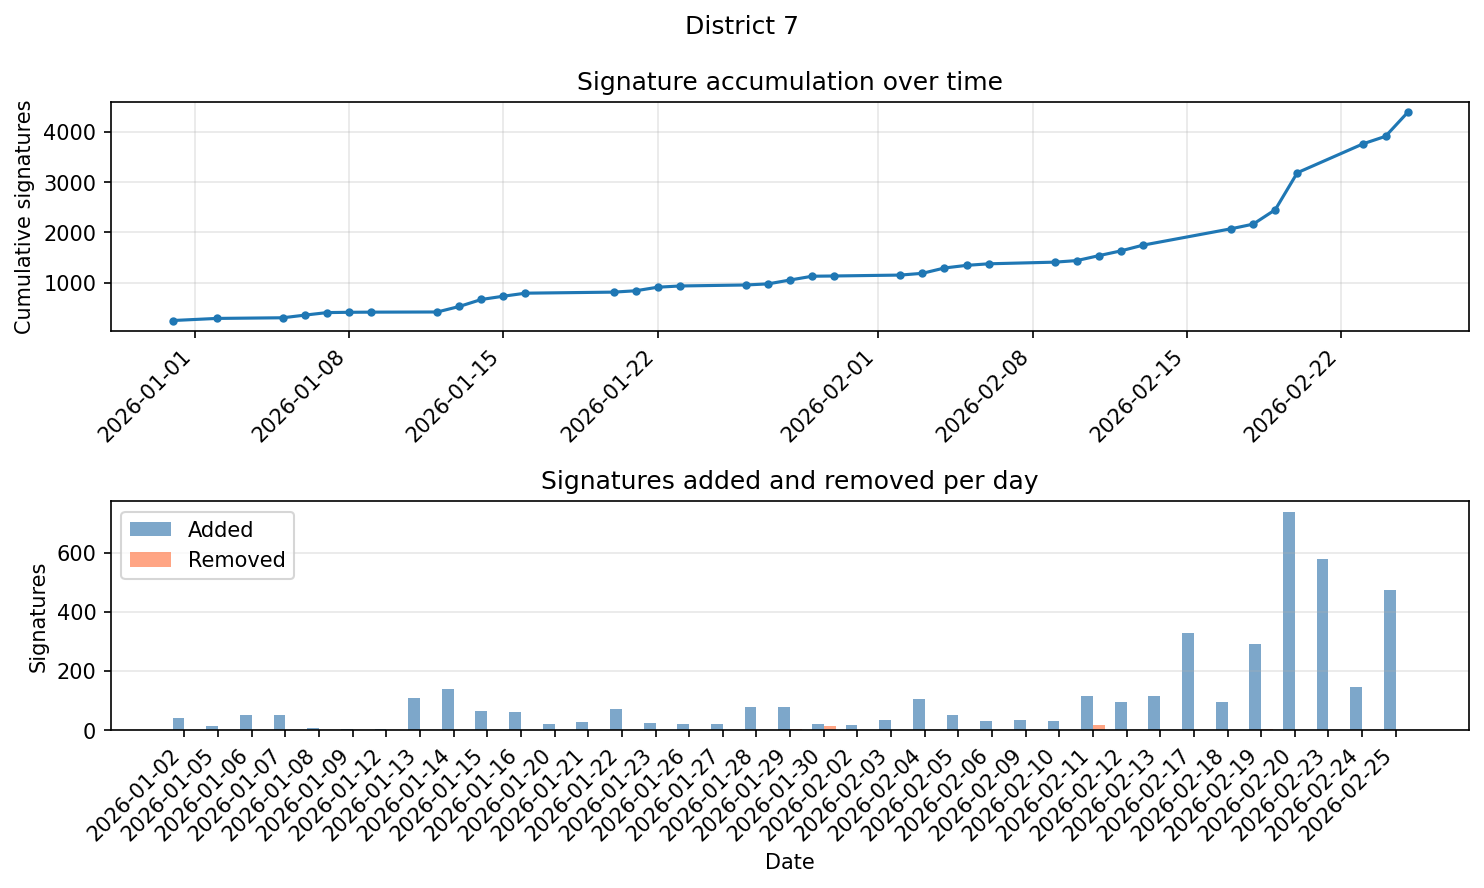
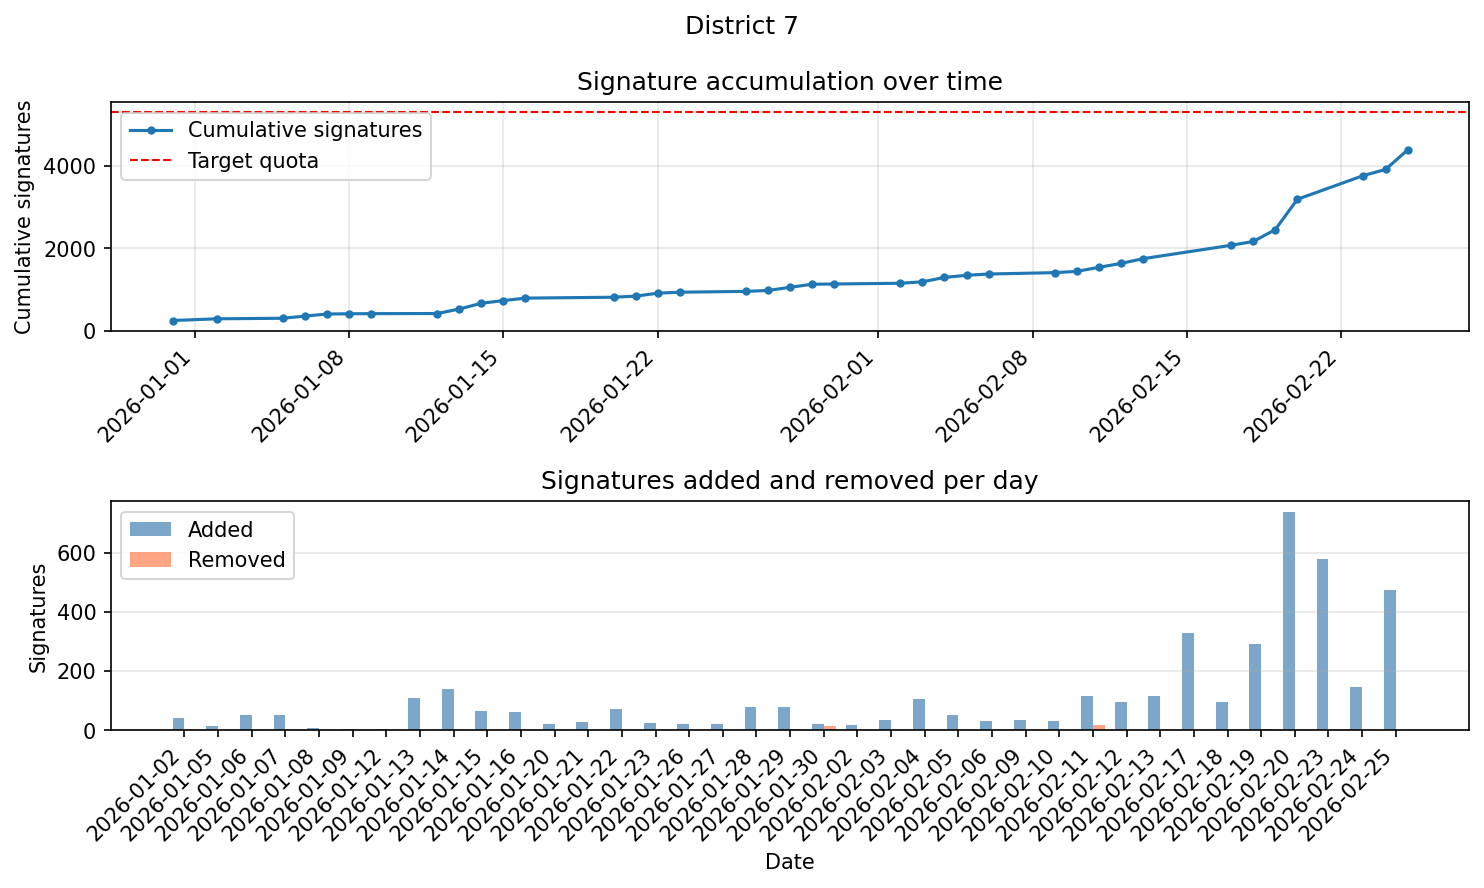
Updated figures with thresholds

Changed region(s): [[0.186, 0.1216, 0.9609, 0.3649], [0.031, 0.1216, 0.31, 0.2128], [0.031, 0.2432, 0.062, 0.3345]]

diff --git a/build_signature_figures.py b/build_signature_figures.py
@@ -19,6 +19,7 @@ matplotlib.use("Agg")
 import matplotlib.pyplot as plt
 import pandas as pd
 import matplotlib.dates as mdates
+from bootstrap_simulation import DISTRICT_TARGETS, STATEWIDE_TARGET
 
 
 def load_and_split(csv_path: Path) -> tuple[pd.DataFrame, pd.DataFrame, list[tuple[str, str]]]:
@@ -103,15 +104,26 @@ def plot_two_panel(
     title: str,
     out_path: Path,
     fmt: str = "png",
+    target_line: float | None = None,
 ) -> None:
     """Create a two-panel figure: top = accumulation over time, bottom = added/removed per day (double bar chart)."""
     fig, (ax_top, ax_bot) = plt.subplots(2, 1, sharex=False, figsize=(10, 6))
 
     # Top: accumulation over time
-    ax_top.plot(acc_dates, acc_cum, marker="o", markersize=3)
+    ax_top.plot(acc_dates, acc_cum, marker="o", markersize=3, label="Cumulative signatures")
+    if target_line is not None:
+        ax_top.axhline(
+            y=target_line,
+            linestyle="--",
+            color="red",
+            linewidth=1,
+            label="Target quota",
+        )
     ax_top.set_ylabel("Cumulative signatures")
     ax_top.set_title("Signature accumulation over time")
     ax_top.grid(True, alpha=0.3)
+    if target_line is not None:
+        ax_top.legend(loc="upper left")
     ax_top.xaxis.set_major_formatter(mdates.DateFormatter("%Y-%m-%d"))
     ax_top.xaxis.set_major_locator(mdates.AutoDateLocator())
     plt.setp(ax_top.xaxis.get_majorticklabels(), rotation=45, ha="right")
@@ -157,6 +169,32 @@ def plot_removal_rate(
     plt.close(fig)
 
 
+def plot_progress_to_target(
+    districts: list[str],
+    percent_of_target: list[float],
+    out_path: Path,
+    fmt: str = "png",
+) -> None:
+    """Bar chart showing percent of target reached by district."""
+    fig, ax = plt.subplots(figsize=(12, 6))
+    x = range(len(districts))
+    ax.bar(x, percent_of_target, alpha=0.7, color="steelblue")
+    ax.axhline(100.0, color="red", linestyle="--", linewidth=1, label="Target (100%)")
+    ax.set_xticks(x)
+    ax.set_xticklabels(districts, rotation=45, ha="right")
+    ax.set_ylabel("Percent of target reached")
+    ax.set_xlabel("Senate district")
+    ax.set_title("Progress toward signature targets by district")
+    if percent_of_target:
+        ymax = max(percent_of_target)
+        ax.set_ylim(0, max(110.0, ymax * 1.05))
+    ax.grid(True, alpha=0.3, axis="y")
+    ax.legend()
+    fig.tight_layout()
+    fig.savefig(out_path, format=fmt, dpi=150, bbox_inches="tight")
+    plt.close(fig)
+
+
 def main() -> int:
     parser = argparse.ArgumentParser(description=__doc__)
     parser.add_argument("--csv", type=Path, default=Path("signature_changes_by_district.csv"), help="Input CSV path")
@@ -186,18 +224,61 @@ def main() -> int:
     )
 
     # Two-panel figure per district
+    current_counts: dict[str, int] = {}
     for d in district_list:
         acc_dates, acc_cum, daily_dates, added_values, removed_values = build_series(initial, transitions, ordered_pairs, d)
         if not acc_dates:
             continue
+        current_counts[d] = int(acc_cum[-1])
+        target = DISTRICT_TARGETS.get(int(d))
         out_path = out_dir / f"district_{int(d):02d}.{fmt}"
-        plot_two_panel(acc_dates, acc_cum, daily_dates, added_values, removed_values, f"District {d}", out_path, fmt)
+        plot_two_panel(
+            acc_dates,
+            acc_cum,
+            daily_dates,
+            added_values,
+            removed_values,
+            f"District {d}",
+            out_path,
+            fmt,
+            target_line=float(target) if target is not None else None,
+        )
 
     # Overall two-panel
     acc_dates, acc_cum, daily_dates, added_values, removed_values = build_series(initial, transitions, ordered_pairs, None)
     if acc_dates:
         out_path = out_dir / f"overall.{fmt}"
-        plot_two_panel(acc_dates, acc_cum, daily_dates, added_values, removed_values, "Overall", out_path, fmt)
+        plot_two_panel(
+            acc_dates,
+            acc_cum,
+            daily_dates,
+            added_values,
+            removed_values,
+            "Overall",
+            out_path,
+            fmt,
+            target_line=float(STATEWIDE_TARGET),
+        )
+
+    # Progress toward targets figure
+    progress_labels: list[str] = []
+    progress_pct: list[float] = []
+    for d in district_list:
+        target = DISTRICT_TARGETS.get(int(d))
+        current = current_counts.get(d, 0)
+        if target and target > 0:
+            pct = 100.0 * current / float(target)
+        else:
+            pct = 0.0
+        progress_labels.append(d)
+        progress_pct.append(pct)
+
+    plot_progress_to_target(
+        progress_labels,
+        progress_pct,
+        out_dir / f"progress_to_target_by_district.{fmt}",
+        fmt,
+    )
 
     # Removal rate by district
     removal_rates = []
